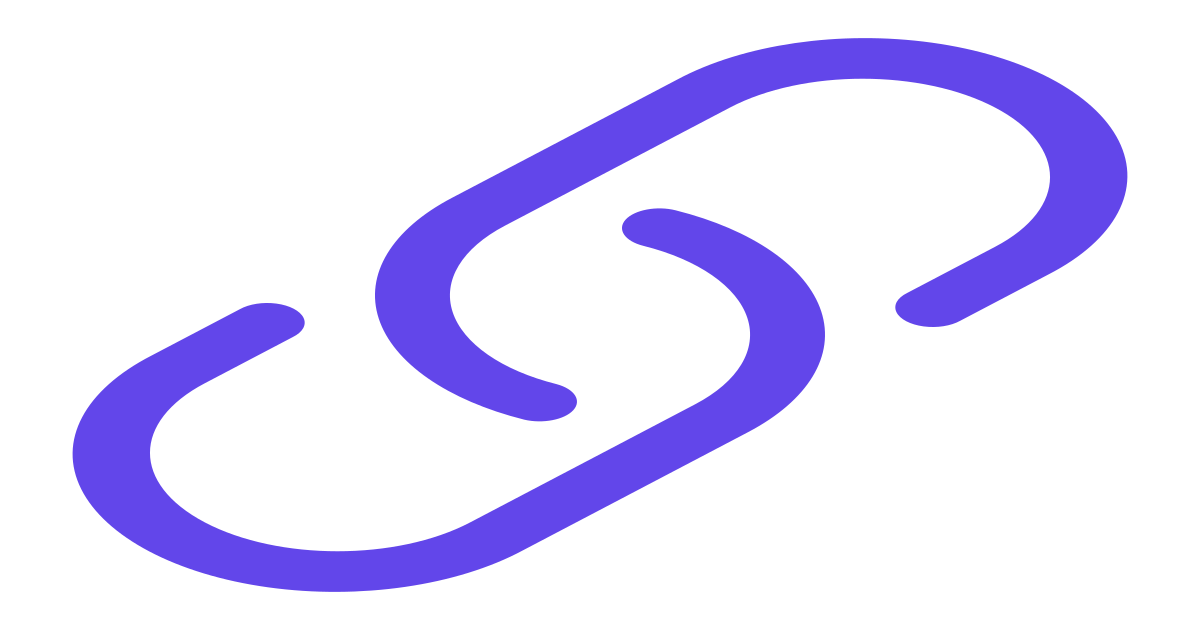
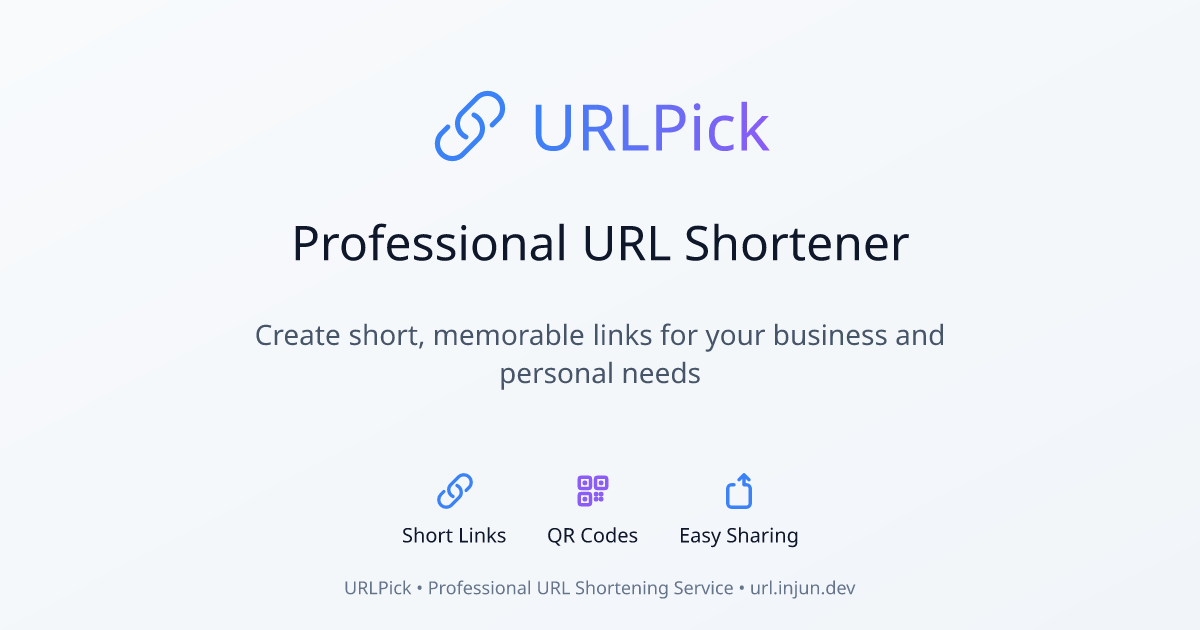
build: Remove OpenGraph image generation
Remove dynamic OpenGraph image generation and use a static
image instead.

- Deletes `app/opengraph-image.tsx`
- Updates `public/og-image.png`
- Removes metadata fields related to dynamic generation
  from `app/layout.tsx`

This simplifies the build process and improves performance
by avoiding server-side image rendering on every request.

Changed region(s): [[0.0617, 0.0603, 0.9558, 0.9651], [0.5858, 0.754, 0.6475, 0.8143], [0.555, 0.8444, 0.6783, 0.8746]]

diff --git a/app/layout.tsx b/app/layout.tsx
@@ -2,7 +2,6 @@ import type React from "react";
 import "@/app/globals.css";
 import { Inter } from "next/font/google";
 import { Toaster } from "sonner";
-import Script from "next/script";
 import type { Metadata, Viewport } from "next";
 import { ThemeProvider } from "@/components/theme-provider";
 
@@ -79,10 +78,6 @@ export const metadata: Metadata = {
     ],
   },
   manifest: "/site.webmanifest",
-  verification: {
-    google: "verification_token",
-  },
-  generator: "v0.dev",
 };
 
 export const viewport: Viewport = {